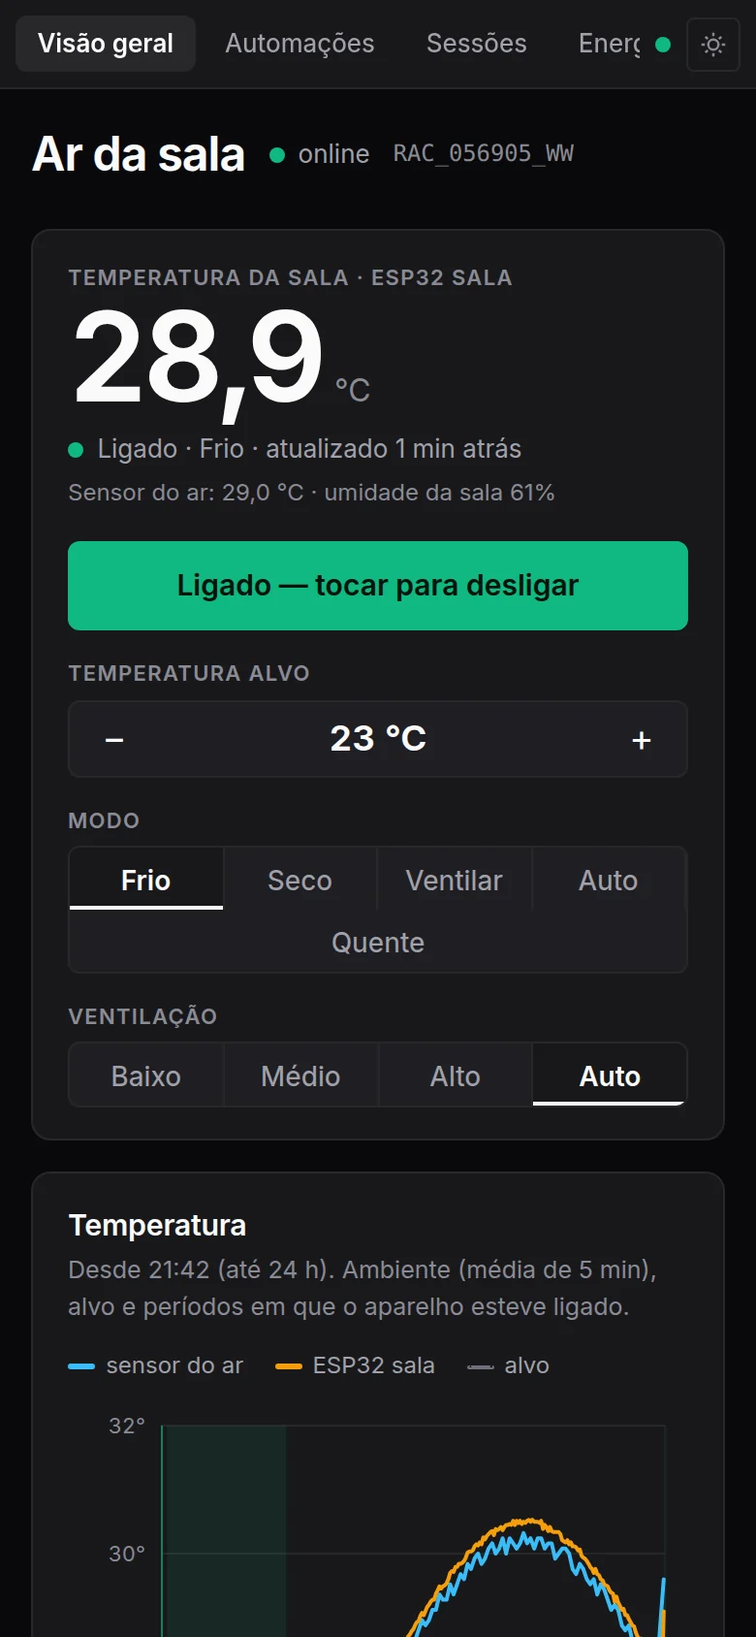
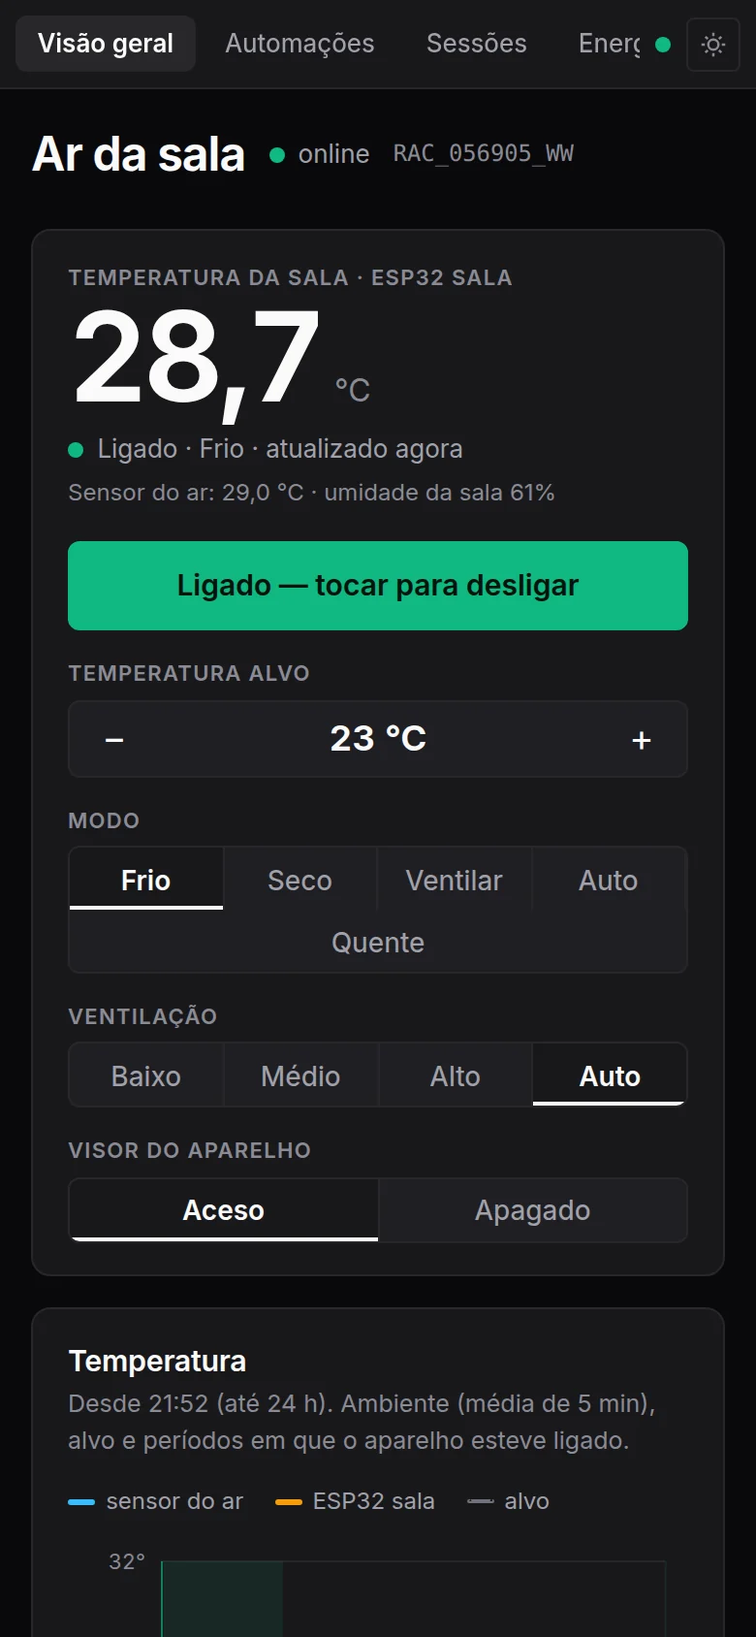
feat: add display (visor) control; document ESP32 requirement and add diagrams
- display: on/off control in the panel and as a rule action, end to end
  (domain, contracts, LG mapping via display.light, gateway, fake provider)
- tests for the LG mapping, state parsing and gateway deduplication
- rule form warns when a rule that turns the AC on uses the AC's own sensor
- docs: turning the AC on by temperature requires the ESP32 sensor
- docs: replace ASCII drawings with Mermaid diagrams
- refreshed screenshots

diff --git a/apps/web/src/Automations.tsx b/apps/web/src/Automations.tsx
@@ -9,9 +9,9 @@ interface Run { id: string; startedAt: number; endedAt: number | null; outcome: 
 const OUTCOME: Record<string, string> = { until: "chegou na temperatura de saída", maxRuntime: "tempo máximo", runFor: "tempo definido", overridden: "você mexeu no aparelho", preempted: "outra regra assumiu", device_off: "aparelho desligado", blocked: "bloqueada por proteção", done: "concluída", end_failed: "não conseguiu desligar" };
 
 const DAYS = ["seg", "ter", "qua", "qui", "sex", "sáb", "dom"];
-interface Form { sensorId: string; name: string; priority: number; onTemp: number; onFor: number; useWindow: boolean; from: string; to: string; days: boolean[]; power: boolean; mode: string; target: number; fan: string;
+interface Form { sensorId: string; name: string; priority: number; onTemp: number; onFor: number; useWindow: boolean; from: string; to: string; days: boolean[]; power: boolean; mode: string; target: number; fan: string; display: string;
   offTemp: number; offFor: number; turnOff: boolean; maxH: number; cooldownMin: number; minOnMin: number; minOffMin: number; maxCmdH: number }
-const DEFAULT: Form = { sensorId: "", name: "Noite quente", priority: 50, onTemp: 27, onFor: 10, useWindow: true, from: "20:00", to: "06:00", days: Array(7).fill(true), power: true, mode: "cool", target: 23, fan: "auto",
+const DEFAULT: Form = { sensorId: "", name: "Noite quente", priority: 50, onTemp: 27, onFor: 10, useWindow: true, from: "20:00", to: "06:00", days: Array(7).fill(true), power: true, mode: "cool", target: 23, fan: "auto", display: "",
   offTemp: 24, offFor: 2, turnOff: true, maxH: 8, cooldownMin: 30, minOnMin: 10, minOffMin: 5, maxCmdH: 6 };
 
 function toInput(f: Form, deviceId: string) {
@@ -20,7 +20,7 @@ function toInput(f: Form, deviceId: string) {
   if (f.useWindow) conds.push({ type: "timeWindow", from: f.from, to: f.to });
   if (f.days.some((d) => !d)) conds.push({ type: "weekday", in: f.days.flatMap((d, i) => (d ? [i + 1] : [])) });
   const attrs: any = { type: "setAttributes", power: f.power };
-  if (f.mode) attrs.mode = f.mode; if (f.target) attrs.targetTemp = f.target; if (f.fan) attrs.fan = f.fan;
+  if (f.mode) attrs.mode = f.mode; if (f.target) attrs.targetTemp = f.target; if (f.fan) attrs.fan = f.fan; if (f.display) attrs.display = f.display === "on";
   return {
     name: f.name, deviceId, enabled: true, priority: f.priority,
     when: conds.length === 1 ? conds[0] : { type: "all", of: conds },
@@ -102,6 +102,7 @@ export function Automations({ device, tick, onToast }: { device: Device; tick: n
               <label className="f">Nome<input value={f.name} onChange={(e) => set("name", e.target.value)} required maxLength={80} /></label>
               <fieldset><legend>1 · Quando</legend>
                 <label className="f">Fonte da temperatura<select value={f.sensorId} onChange={(e) => set("sensorId", e.target.value)}><option value="">Sensor do próprio ar-condicionado</option>{sensors.map((x) => <option key={x.id} value={x.id}>{x.name} (sensor externo)</option>)}</select></label>
+                {f.power && !f.sensorId && <p className="small warn-text" role="note" style={{ margin: 0 }}>Desligado, o sensor do ar-condicionado não atualiza a temperatura, então esta regra só vai conseguir ligar o aparelho se a temperatura vier de um sensor externo (ESP32). Com o sensor do ar, use regras que só desligam.</p>}
                 <div className="grid2">
                   <label className="f">Temperatura ≥ (°C)<input type="number" step="0.5" value={f.onTemp} onChange={(e) => set("onTemp", +e.target.value)} /></label>
                   <label className="f">por pelo menos (min)<input type="number" min={0} value={f.onFor} onChange={(e) => set("onFor", +e.target.value)} /></label>
@@ -116,6 +117,7 @@ export function Automations({ device, tick, onToast }: { device: Device; tick: n
                   {caps && <label className="f">Modo<select value={f.mode} onChange={(e) => set("mode", e.target.value)}><option value="">(manter)</option>{caps.modes.map((m) => <option key={m} value={m}>{MODE_LABEL[m] ?? m}</option>)}</select></label>}
                   {caps?.temperature && <label className="f">Alvo (°C)<input type="number" min={caps.temperature.min} max={caps.temperature.max} step={caps.temperature.step} value={f.target} onChange={(e) => set("target", +e.target.value)} /></label>}
                   {caps?.fan && <label className="f">Ventilação<select value={f.fan} onChange={(e) => set("fan", e.target.value)}><option value="">(manter)</option>{caps.fan.values.map((m) => <option key={m} value={m}>{m}</option>)}</select></label>}
+                  {caps?.display && <label className="f">Visor<select value={f.display} onChange={(e) => set("display", e.target.value)}><option value="">(manter)</option><option value="off">apagar</option><option value="on">acender</option></select></label>}
                 </div>
               </fieldset>
               {f.power && <fieldset><legend>3 · Até</legend>

diff --git a/apps/web/src/Overview.tsx b/apps/web/src/Overview.tsx
@@ -8,7 +8,7 @@ import { Alert, Kpi, Segmented, Stepper } from "./ui.tsx";
 interface Sess { id: string; startTs: number; endTs: number | null; durationSec: number; open: boolean; origin: string | null; targetTemp: number | null; estimate: { wh: number | null; costBrl: number | null; provisional: boolean; reason: string | null } }
 interface Cmd { id: string; createdAt: number; origin: string; attributes: Record<string, unknown>; status: string; skipReason: string | null; errorKind: string | null; latencyMs: number | null }
 const ORIGIN = (o: string | null) => !o ? "—" : o.startsWith("automation:") ? "Automação" : ({ manual: "Manual (aqui)", external: "App/controle", unknown: "Já estava ligado", system: "Sistema" } as Record<string, string>)[o] ?? o;
-const ATTR = (a: Record<string, unknown>) => Object.entries(a).map(([k, v]) => k === "power" ? (v ? "ligar" : "desligar") : k === "targetTemp" ? `alvo ${v} °C` : k === "mode" ? `modo ${MODE_LABEL[String(v)] ?? v}` : k === "fan" ? `ventilação ${FAN_LABEL[String(v)] ?? v}` : `${k} ${v}`).join(", ");
+const ATTR = (a: Record<string, unknown>) => Object.entries(a).map(([k, v]) => k === "power" ? (v ? "ligar" : "desligar") : k === "targetTemp" ? `alvo ${v} °C` : k === "mode" ? `modo ${MODE_LABEL[String(v)] ?? v}` : k === "fan" ? `ventilação ${FAN_LABEL[String(v)] ?? v}` : k === "display" ? (v ? "acender visor" : "apagar visor") : `${k} ${v}`).join(", ");
 const STATUS: Record<string, [string, string]> = { confirmed: ["confirmado", "ok"], sent: ["enviado", "info"], pending: ["pendente", "info"], failed: ["falhou", "warn"], skipped: ["ignorado", ""] };
 const FAN_LABEL: Record<string, string> = { low: "Baixo", mid: "Médio", high: "Alto", auto: "Auto", nature: "Natural", low_mid: "Baixo-médio", mid_high: "Médio-alto" };
 const hhmm = (ms: number) => new Date(ms).toLocaleTimeString("pt-BR", { hour: "2-digit", minute: "2-digit" });
@@ -107,6 +107,7 @@ export function Overview({ device, tick, cmdSeq, onToast, onReload, go }: { devi
             {caps?.temperature && s.targetTemp !== undefined && <div className="ctl"><span className="label">Temperatura alvo</span><Stepper label="Temperatura alvo" value={s.targetTemp} min={caps.temperature.min} max={caps.temperature.max} step={caps.temperature.step} unit="°C" disabled={!online || busy} onChange={(v) => send({ targetTemp: v })} /></div>}
             {caps && caps.modes.length > 0 && <div className="ctl"><span className="label">Modo</span><Segmented full label="Modo" value={s.mode} disabled={!online || busy} options={caps.modes.map((m) => ({ value: m, label: MODE_LABEL[m] ?? m }))} onChange={(v) => send({ mode: v })} /></div>}
             {caps?.fan && <div className="ctl"><span className="label">Ventilação</span><Segmented full label="Ventilação" value={s.fan} disabled={!online || busy} options={caps.fan.values.map((m) => ({ value: m, label: FAN_LABEL[m] ?? m }))} onChange={(v) => send({ fan: v })} /></div>}
+            {caps?.display && <div className="ctl"><span className="label">Visor do aparelho</span><Segmented full label="Visor do aparelho" value={s.display === undefined ? undefined : s.display ? "on" : "off"} disabled={!online || busy} options={[{ value: "on", label: "Aceso" }, { value: "off", label: "Apagado" }]} onChange={(v) => send({ display: v === "on" })} /></div>}
           </div>
         </section>
 

diff --git a/packages/providers/lg-thinq/src/mapping.ts b/packages/providers/lg-thinq/src/mapping.ts
@@ -11,6 +11,7 @@ export interface LgProfile {
   tempKey: "targetTemperature" | "coolTargetTemperature";
   swing: { v: boolean; h: boolean };
   hasPowerSave: boolean;
+  hasDisplay: boolean; // display.light gravável (ON/OFF)
   modeValues: string[]; // valores LG graváveis de currentJobMode
 }
 
@@ -44,14 +45,15 @@ export function parseProfile(raw: any): LgProfile {
   const wd = p.windDirection ?? {};
   const swing = { v: writable(wd.rotateUpDown), h: writable(wd.rotateLeftRight) };
   const hasPowerSave = writable(p.powerSave?.powerSaveEnabled);
+  const hasDisplay = writable(p.display?.light);
   const caps: LgProfile["caps"] = {
     power: !!op && (wValues(op).length === 0 || wValues(op).includes("POWER_ON")) && writable(op),
     temperature: range, modes,
     fan: fanKey ? { values: wValues(airFlow[fanKey]).map(lower) } : undefined,
     swing: swing.v || swing.h ? { vertical: swing.v, horizontal: swing.h } : undefined,
-    powerSave: hasPowerSave, humiditySensor: !!p.airQualitySensor?.humidity,
+    powerSave: hasPowerSave, display: hasDisplay, humiditySensor: !!p.airQualitySensor?.humidity,
   };
-  return { caps, fanKey, tempKey, swing, hasPowerSave, modeValues };
+  return { caps, fanKey, tempKey, swing, hasPowerSave, hasDisplay, modeValues };
 }
 
 const num = (v: unknown): number | undefined => (typeof v === "number" && Number.isFinite(v) ? v : undefined);
@@ -72,6 +74,8 @@ export function parseState(raw: any, profile?: LgProfile): { state: NormalizedSt
   }
   const fan = raw?.airFlow?.[profile?.fanKey ?? "windStrength"] ?? raw?.airFlow?.windStrength ?? raw?.airFlow?.windStrengthDetail;
   if (typeof fan === "string") s.fan = lower(fan) as Fan;
+  const light = raw?.display?.light;
+  if (light === "ON") s.display = true; else if (light === "OFF") s.display = false;
   const hum = num(raw?.airQualitySensor?.humidity); if (hum !== undefined) s.humidity = hum;
   return { state: s, fieldsPresent: STATE_FIELDS.filter((f) => s[f] !== undefined) };
 }
@@ -86,6 +90,7 @@ export function buildCommands(patch: AttributePatch, profile: LgProfile): Record
   if (patch.swingV !== undefined) out.push({ windDirection: { rotateUpDown: patch.swingV } });
   if (patch.swingH !== undefined) out.push({ windDirection: { rotateLeftRight: patch.swingH } });
   if (patch.powerSave !== undefined) out.push({ powerSave: { powerSaveEnabled: patch.powerSave } });
+  if (patch.display !== undefined) out.push({ display: { light: patch.display ? "ON" : "OFF" } });
   return out;
 }
 
@@ -102,5 +107,6 @@ export function checkPatch(patch: AttributePatch, p: LgProfile): string | null {
   if (patch.swingV !== undefined && !p.swing.v) return "swing vertical não suportado";
   if (patch.swingH !== undefined && !p.swing.h) return "swing horizontal não suportado";
   if (patch.powerSave !== undefined && !p.hasPowerSave) return "power-save não suportado";
+  if (patch.display !== undefined && !p.hasDisplay) return "visor não suportado";
   return null;
 }

diff --git a/packages/providers/fake/src/index.ts b/packages/providers/fake/src/index.ts
@@ -18,6 +18,7 @@ const CAPS = (energy: boolean): Capabilities => ({
   fan: { values: ["low", "mid", "high", "auto"] },
   swing: { vertical: true, horizontal: false },
   powerSave: true,
+  display: true,
   humiditySensor: false,
   energy: { supported: energy, granularities: energy ? ["day", "month"] : [], unit: "Wh", properties: energy ? ["energyUsage"] : [] },
 });
@@ -47,7 +48,7 @@ export class FakeProvider implements ACProvider {
     this.failNext = opts.failNext ?? [];
     this.caps = CAPS(opts.energy ?? true);
     this.lastTick = this.clock.now();
-    this.state = { power: false, mode: "cool", targetTemp: 24, currentTemp: this.temp, fan: "auto", online: true };
+    this.state = { power: false, mode: "cool", targetTemp: 24, currentTemp: this.temp, fan: "auto", display: true, online: true };
   }
 
   async getDevices(): Promise<ProviderDevice[]> { return [{ externalId: "fake-ac-1", name: "Ar da sala (fake)", model: "FAKE_001" }]; }
@@ -71,7 +72,7 @@ export class FakeProvider implements ACProvider {
     this.commands.push(patch);
     const changed: StateField[] = [];
     const set = <K extends StateField>(k: K, v: NormalizedState[K] | undefined) => { if (v !== undefined && this.state[k] !== v) { this.state[k] = v; changed.push(k); } };
-    set("power", patch.power); set("mode", patch.mode as Mode | undefined); set("targetTemp", patch.targetTemp); set("fan", patch.fan);
+    set("power", patch.power); set("mode", patch.mode as Mode | undefined); set("targetTemp", patch.targetTemp); set("fan", patch.fan); set("display", patch.display);
     if (changed.length) this.emit(changed, "mqtt");
   }
 
@@ -102,7 +103,7 @@ export class FakeProvider implements ACProvider {
   externalChange(patch: AttributePatch) {
     this.advance();
     const changed: StateField[] = [];
-    for (const [k, v] of Object.entries(patch)) { const key = ({ power: "power", mode: "mode", targetTemp: "targetTemp", fan: "fan" } as Record<string, StateField>)[k]; if (key && (this.state as any)[key] !== v) { (this.state as any)[key] = v; changed.push(key); } }
+    for (const [k, v] of Object.entries(patch)) { const key = ({ power: "power", mode: "mode", targetTemp: "targetTemp", fan: "fan", display: "display" } as Record<string, StateField>)[k]; if (key && (this.state as any)[key] !== v) { (this.state as any)[key] = v; changed.push(key); } }
     if (changed.length) this.emit(changed, "mqtt");
   }
   setAmbient(c: number) { this.advance(); this.ambient = c; }

diff --git a/packages/providers/lg-thinq/test/lg.test.ts b/packages/providers/lg-thinq/test/lg.test.ts
@@ -1,6 +1,6 @@
 import { describe, expect, it } from "vitest";
 import { providerContract } from "@acc/provider-api/contract";
-import { LgHttp, LgThinqProvider, buildCommands, chunk, parseProfile, parseState, parseUsage, toProviderError, LgApiError } from "../src/index.ts";
+import { LgHttp, LgThinqProvider, buildCommands, checkPatch, chunk, parseProfile, parseState, parseUsage, toProviderError, LgApiError } from "../src/index.ts";
 
 // Fixtures SINTÉTICAS baseadas na documentação oficial (exemplo de AC). Serão complementadas pelas reais do Spike 0.
 const PROFILE = { property: {
@@ -73,6 +73,25 @@ describe("mapeamento", () => {
       { operation: { airConOperationMode: "POWER_ON" } }, { airConJobMode: { currentJobMode: "COOL" } },
       { temperature: { targetTemperature: 23, unit: "C" } }, { airFlow: { windStrength: "AUTO" } }, { windDirection: { rotateUpDown: true } },
     ]);
+  });
+});
+
+describe("visor (display.light)", () => {
+  const withDisplay = () => { const raw = structuredClone(PROFILE) as any; raw.property.display = { light: { type: "enum", mode: ["r", "w"], value: { r: ["ON", "OFF"], w: ["ON", "OFF"] } } }; return raw; };
+  it("capability só existe se o perfil permitir gravar", () => {
+    expect(parseProfile(PROFILE).caps.display).toBe(false);
+    expect(parseProfile(withDisplay()).caps.display).toBe(true);
+  });
+  it("estado ON/OFF vira booleano, inclusive em delta de evento", () => {
+    expect(parseState({ display: { light: "OFF" } }).state).toEqual({ display: false });
+    expect(parseState({ display: { light: "ON" } }).fieldsPresent).toEqual(["display"]);
+  });
+  it("comando: display.light ON/OFF; recusado localmente se o perfil não suporta", () => {
+    const p = parseProfile(withDisplay());
+    expect(buildCommands({ display: false }, p)).toEqual([{ display: { light: "OFF" } }]);
+    expect(buildCommands({ display: true }, p)).toEqual([{ display: { light: "ON" } }]);
+    expect(checkPatch({ display: false }, p)).toBeNull();
+    expect(checkPatch({ display: false }, parseProfile(PROFILE))).toMatch(/visor/);
   });
 });
 

diff --git a/packages/automation/src/gateway.ts b/packages/automation/src/gateway.ts
@@ -203,6 +203,7 @@ export function validatePatch(p: AttributePatch, caps: Capabilities): string | n
   if (p.fan !== undefined && !caps.fan?.values.includes(p.fan)) return `fan ${p.fan} não suportado`;
   if ((p.swingV !== undefined && !caps.swing?.vertical) || (p.swingH !== undefined && !caps.swing?.horizontal)) return "swing não suportado";
   if (p.powerSave !== undefined && !caps.powerSave) return "power-save não suportado";
+  if (p.display !== undefined && !caps.display) return "visor não suportado";
   return null;
 }
 
@@ -213,6 +214,7 @@ export function reduceToChanges(p: AttributePatch, st: DeviceState): AttributePa
   if (p.mode !== undefined && v.mode !== p.mode) out.mode = p.mode;
   if (p.targetTemp !== undefined && !(v.targetTemp !== undefined && Math.abs(v.targetTemp - p.targetTemp) < TOLERANCE)) out.targetTemp = p.targetTemp;
   if (p.fan !== undefined && v.fan !== p.fan) out.fan = p.fan;
+  if (p.display !== undefined && v.display !== p.display) out.display = p.display;
   if (p.swingV !== undefined) out.swingV = p.swingV; // sem estado observado: sempre envia
   if (p.swingH !== undefined) out.swingH = p.swingH;
   if (p.powerSave !== undefined) out.powerSave = p.powerSave;
@@ -222,5 +224,6 @@ export function reduceToChanges(p: AttributePatch, st: DeviceState): AttributePa
 function satisfied(p: AttributePatch, v: DeviceState["values"]): boolean {
   return (p.power === undefined || v.power === p.power) && (p.mode === undefined || v.mode === p.mode)
     && (p.targetTemp === undefined || (v.targetTemp !== undefined && Math.abs(v.targetTemp - p.targetTemp) < TOLERANCE))
-    && (p.fan === undefined || v.fan === p.fan);
+    && (p.fan === undefined || v.fan === p.fan)
+    && (p.display === undefined || v.display === undefined || v.display === p.display);
 }

diff --git a/apps/web/src/api.ts b/apps/web/src/api.ts
@@ -20,8 +20,8 @@ export const api = {
   del: (p: string) => req<void>("DELETE", p),
 };
 
-export interface Caps { power: boolean; temperature?: { min: number; max: number; step: number }; modes: string[]; fan?: { values: string[] }; energy: { supported: boolean } }
-export interface Device { id: string; name: string; model: string | null; state: { power?: boolean; mode?: string; targetTemp?: number; currentTemp?: number; fan?: string; humidity?: number; online?: boolean }; observedAt: Record<string, number>; capabilities: Caps | null; breaker: { reason: string; at: number } | null }
+export interface Caps { power: boolean; temperature?: { min: number; max: number; step: number }; modes: string[]; fan?: { values: string[] }; display?: boolean; energy: { supported: boolean } }
+export interface Device { id: string; name: string; model: string | null; state: { power?: boolean; mode?: string; targetTemp?: number; currentTemp?: number; fan?: string; humidity?: number; display?: boolean; online?: boolean }; observedAt: Record<string, number>; capabilities: Caps | null; breaker: { reason: string; at: number } | null }
 export interface AutomationState { ruleId: string; name: string; enabled: boolean; priority: number; state: string; since: number | null; untilTs: number | null; reason: string | null; runStartedAt: number | null; description: { when: string; then: string; until: string | null; onEnd: string | null } }
 export interface Money { wh: number | null; costBrl: number | null; basis: "measured" | "estimated" | null; provisional?: boolean; daysWithData?: number }
 export interface Dashboard {

diff --git a/packages/automation/test/gateway.test.ts b/packages/automation/test/gateway.test.ts
@@ -2,7 +2,7 @@ import { beforeEach, describe, expect, it } from "vitest";
 import { DEFAULT_GUARDS, ProviderError, StateStore } from "@acc/domain";
 import { FakeProvider } from "@acc/provider-fake";
 import { openDb, Store } from "@acc/storage";
-import { CommandGateway, GatewayEvent } from "../src/index.ts";
+import { CommandGateway, GatewayEvent, validatePatch } from "../src/index.ts";
 
 function setup(opts: { cfg?: object } = {}) {
   const store = new Store(openDb(":memory:"));
@@ -44,6 +44,14 @@ describe("CommandGateway", () => {
     const c = await s.gw.submit({ deviceId: s.dev.id, attributes: { power: true }, origin: "manual" });
     expect(c).toMatchObject({ status: "skipped", skipReason: "already_in_state" });
     expect(s.provider.commands.length).toBe(1);
+  });
+
+  it("visor: apagar envia uma vez; repetir vira skipped; sem suporte é recusado", async () => {
+    const c = await s.gw.submit({ deviceId: s.dev.id, attributes: { display: false }, origin: "manual" }); await s.gw.idle();
+    expect(s.store.command(c.id)!.status).toBe("confirmed");
+    expect(s.provider.commands).toEqual([{ display: false }]);
+    expect(await s.gw.submit({ deviceId: s.dev.id, attributes: { display: false }, origin: "manual" })).toMatchObject({ status: "skipped", skipReason: "already_in_state" });
+    expect(validatePatch({ display: true }, { ...(await s.provider.getCapabilities()), display: false })).toBe("visor não suportado");
   });
 
   it("dedup parcial: remove só o que já vale", async () => {

diff --git a/packages/domain/src/types.ts b/packages/domain/src/types.ts
@@ -9,10 +9,11 @@ export interface NormalizedState {
   currentTemp?: number;
   fan?: Fan;
   humidity?: number;
+  display?: boolean; // visor (luz) do aparelho aceso
   online?: boolean;
 }
 export type StateField = keyof NormalizedState;
-export const STATE_FIELDS: StateField[] = ["power", "mode", "targetTemp", "currentTemp", "fan", "humidity", "online"];
+export const STATE_FIELDS: StateField[] = ["power", "mode", "targetTemp", "currentTemp", "fan", "humidity", "display", "online"];
 
 /** Estado mesclado por campo; cada campo guarda quando foi observado. */
 export interface DeviceState {
@@ -27,6 +28,7 @@ export interface Capabilities {
   fan?: { values: Fan[] };
   swing?: { vertical: boolean; horizontal: boolean };
   powerSave: boolean;
+  display: boolean; // dá para acender/apagar o visor
   humiditySensor: boolean;
   energy: EnergyCapabilities;
 }
@@ -38,7 +40,7 @@ export interface EnergyCapabilities {
 }
 
 export type AttributePatch = Partial<{
-  power: boolean; mode: Mode; targetTemp: number; fan: Fan; swingV: boolean; swingH: boolean; powerSave: boolean;
+  power: boolean; mode: Mode; targetTemp: number; fan: Fan; swingV: boolean; swingH: boolean; powerSave: boolean; display: boolean;
 }>;
 
 export type EventSource = "mqtt" | "poll" | "command-echo";

diff --git a/packages/providers/lg-thinq/test/real-fixtures.test.ts b/packages/providers/lg-thinq/test/real-fixtures.test.ts
@@ -31,11 +31,11 @@ describe("aparelho real RAC_056905_WW", () => {
     expect(p.caps.temperature).toEqual({ min: 18, max: 30, step: 0.5 });
     expect(p.caps.fan!.values).toEqual(["low", "mid", "high", "auto"]); expect(p.fanKey).toBe("windStrength");
     expect(p.caps.swing).toEqual({ vertical: true, horizontal: false });
-    expect(p.caps.powerSave).toBe(false); expect(p.caps.humiditySensor).toBe(false); expect(p.caps.power).toBe(true);
+    expect(p.caps.display).toBe(true); expect(p.caps.powerSave).toBe(false); expect(p.caps.humiditySensor).toBe(false); expect(p.caps.power).toBe(true);
   });
   it("estado real: ligado, COOL, alvo 22, ambiente 28,5, fan high", () => {
     const { state: s } = parseState(state.response, parseProfile(profile.response));
-    expect(s).toEqual({ power: true, mode: "cool", targetTemp: 22, currentTemp: 28.5, fan: "high" });
+    expect(s).toEqual({ power: true, mode: "cool", targetTemp: 22, currentTemp: 28.5, fan: "high", display: true });
   });
   it("evento real é delta só de temperatura alvo; ambiente e power ficam ausentes (não substituem estado)", () => {
     const prov = mock().provider;

diff --git a/packages/contracts/src/index.ts b/packages/contracts/src/index.ts
@@ -10,6 +10,7 @@ export const AttributePatchSchema = z.object({
   swingV: z.boolean().optional(),
   swingH: z.boolean().optional(),
   powerSave: z.boolean().optional(),
+  display: z.boolean().optional(),
 }).strict();
 
 export const CommandRequestSchema = z.object({
@@ -27,7 +28,7 @@ export type CommandDto = z.infer<typeof CommandSchema>;
 
 export const StateSchema = z.object({
   power: z.boolean().optional(), mode: ModeSchema.optional(), targetTemp: z.number().optional(),
-  currentTemp: z.number().optional(), fan: z.string().optional(), humidity: z.number().optional(), online: z.boolean().optional(),
+  currentTemp: z.number().optional(), fan: z.string().optional(), humidity: z.number().optional(), display: z.boolean().optional(), online: z.boolean().optional(),
 });
 export const DeviceSchema = z.object({
   id: z.string(), name: z.string(), model: z.string().nullable(),

diff --git a/apps/web/src/style.css b/apps/web/src/style.css
@@ -15,7 +15,7 @@ button, input, select { font: inherit; color: inherit; }
 :focus-visible { outline: 2px solid var(--info); outline-offset: 2px; }
 .num { font-variant-numeric: tabular-nums; }
 .mono { font-family: ui-monospace, "SFMono-Regular", Menlo, monospace; font-size: .85em; }
-.muted { color: var(--muted-foreground); } .small { font-size: 12px; } .err { color: var(--crit); } .ok-text { color: var(--ok); }
+.muted { color: var(--muted-foreground); } .small { font-size: 12px; } .err { color: var(--crit); } .ok-text { color: var(--ok); } .warn-text { color: var(--warn); }
 
 /* tipografia: título da página > título de seção > rótulo de card > valor */
 .pagehead { display: flex; align-items: center; gap: .75rem; flex-wrap: wrap; margin-bottom: 1.25rem; }
